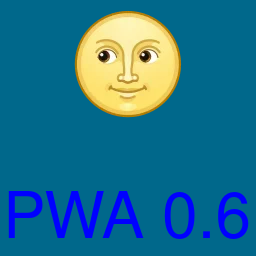
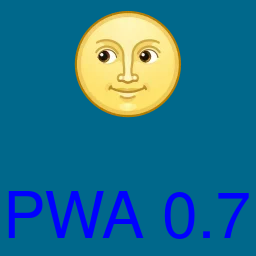
ver. 0.7

Changed region(s): [[0.8438, 0.75, 0.9688, 0.9375]]

diff --git a/app.html b/app.html
@@ -6,6 +6,6 @@
     <link rel="manifest" href="manifest.json" />
   </head>
   <body style="background: deepskyblue;">
-    <p>App page ver. 0.6</p>
+    <p>App page ver. 0.7</p>
   </body>
 </html>
